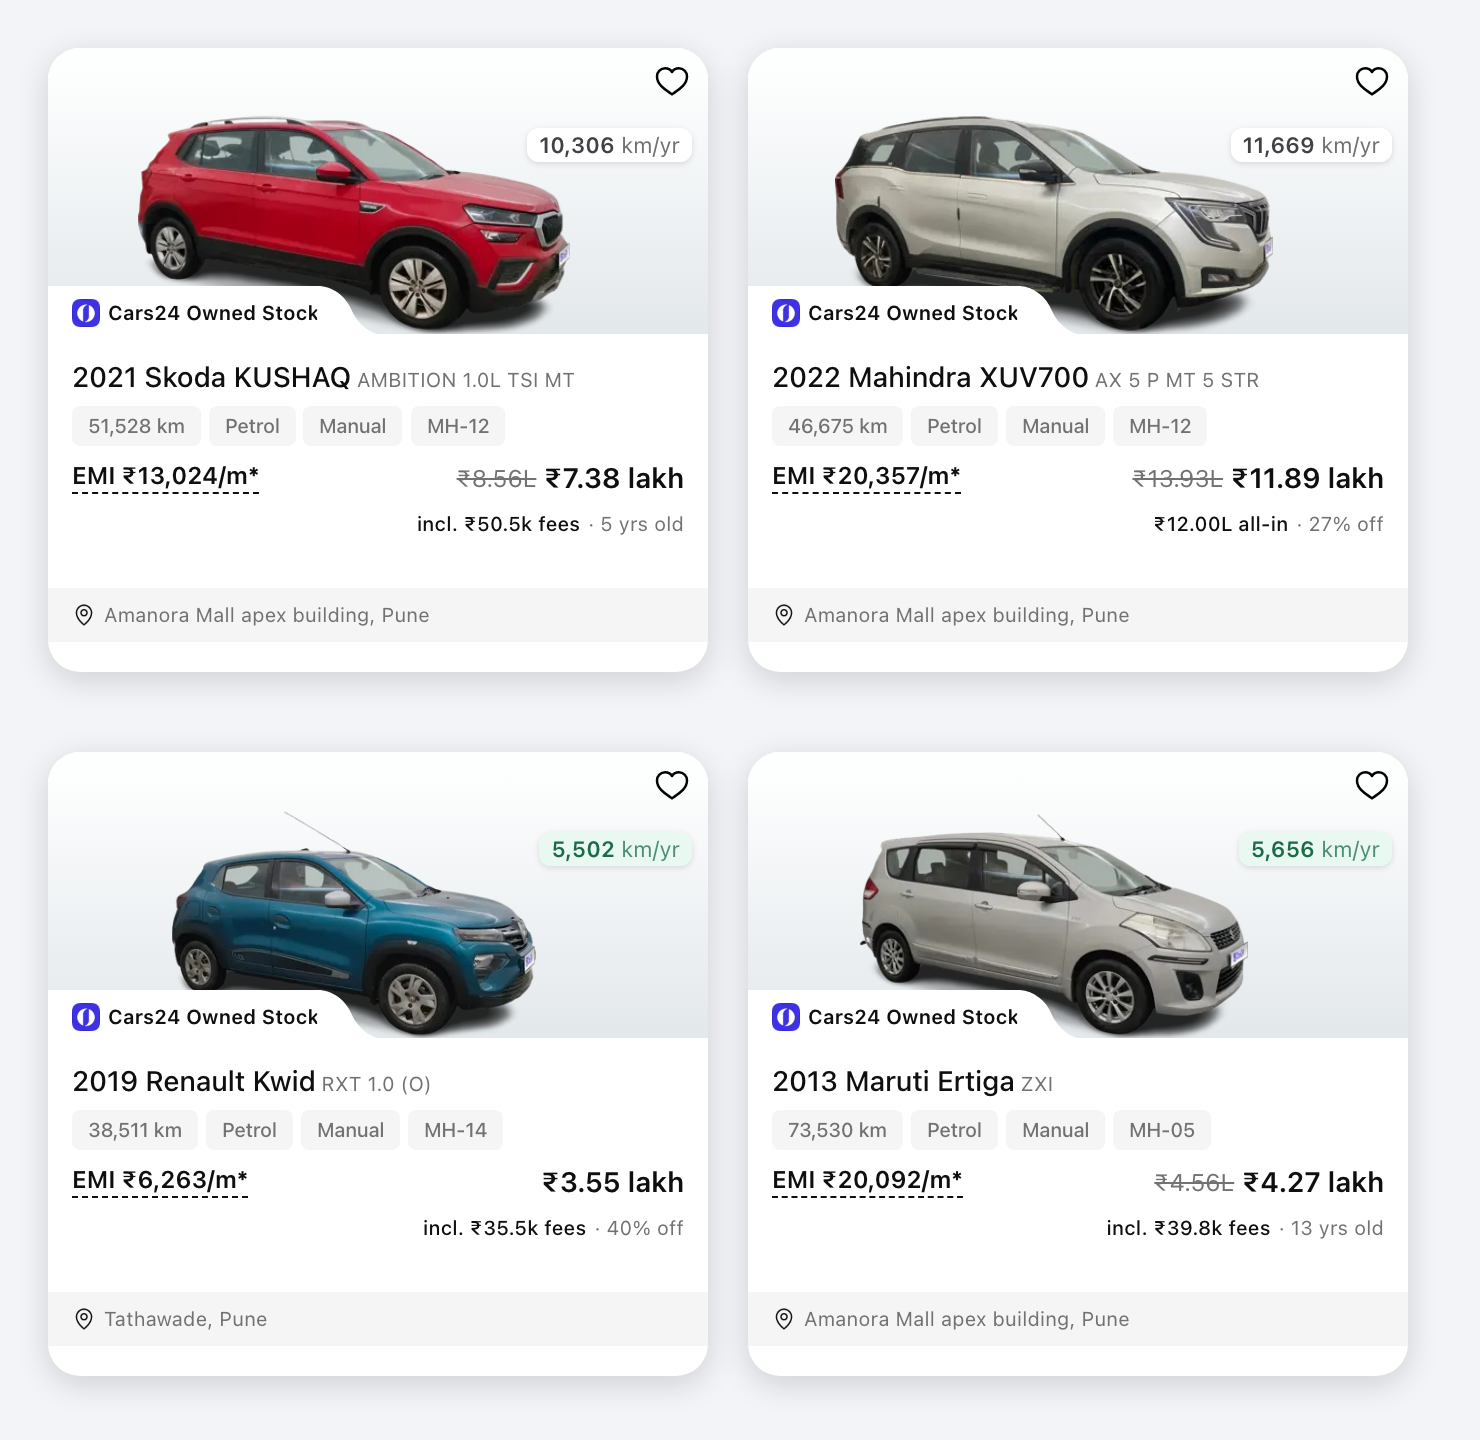
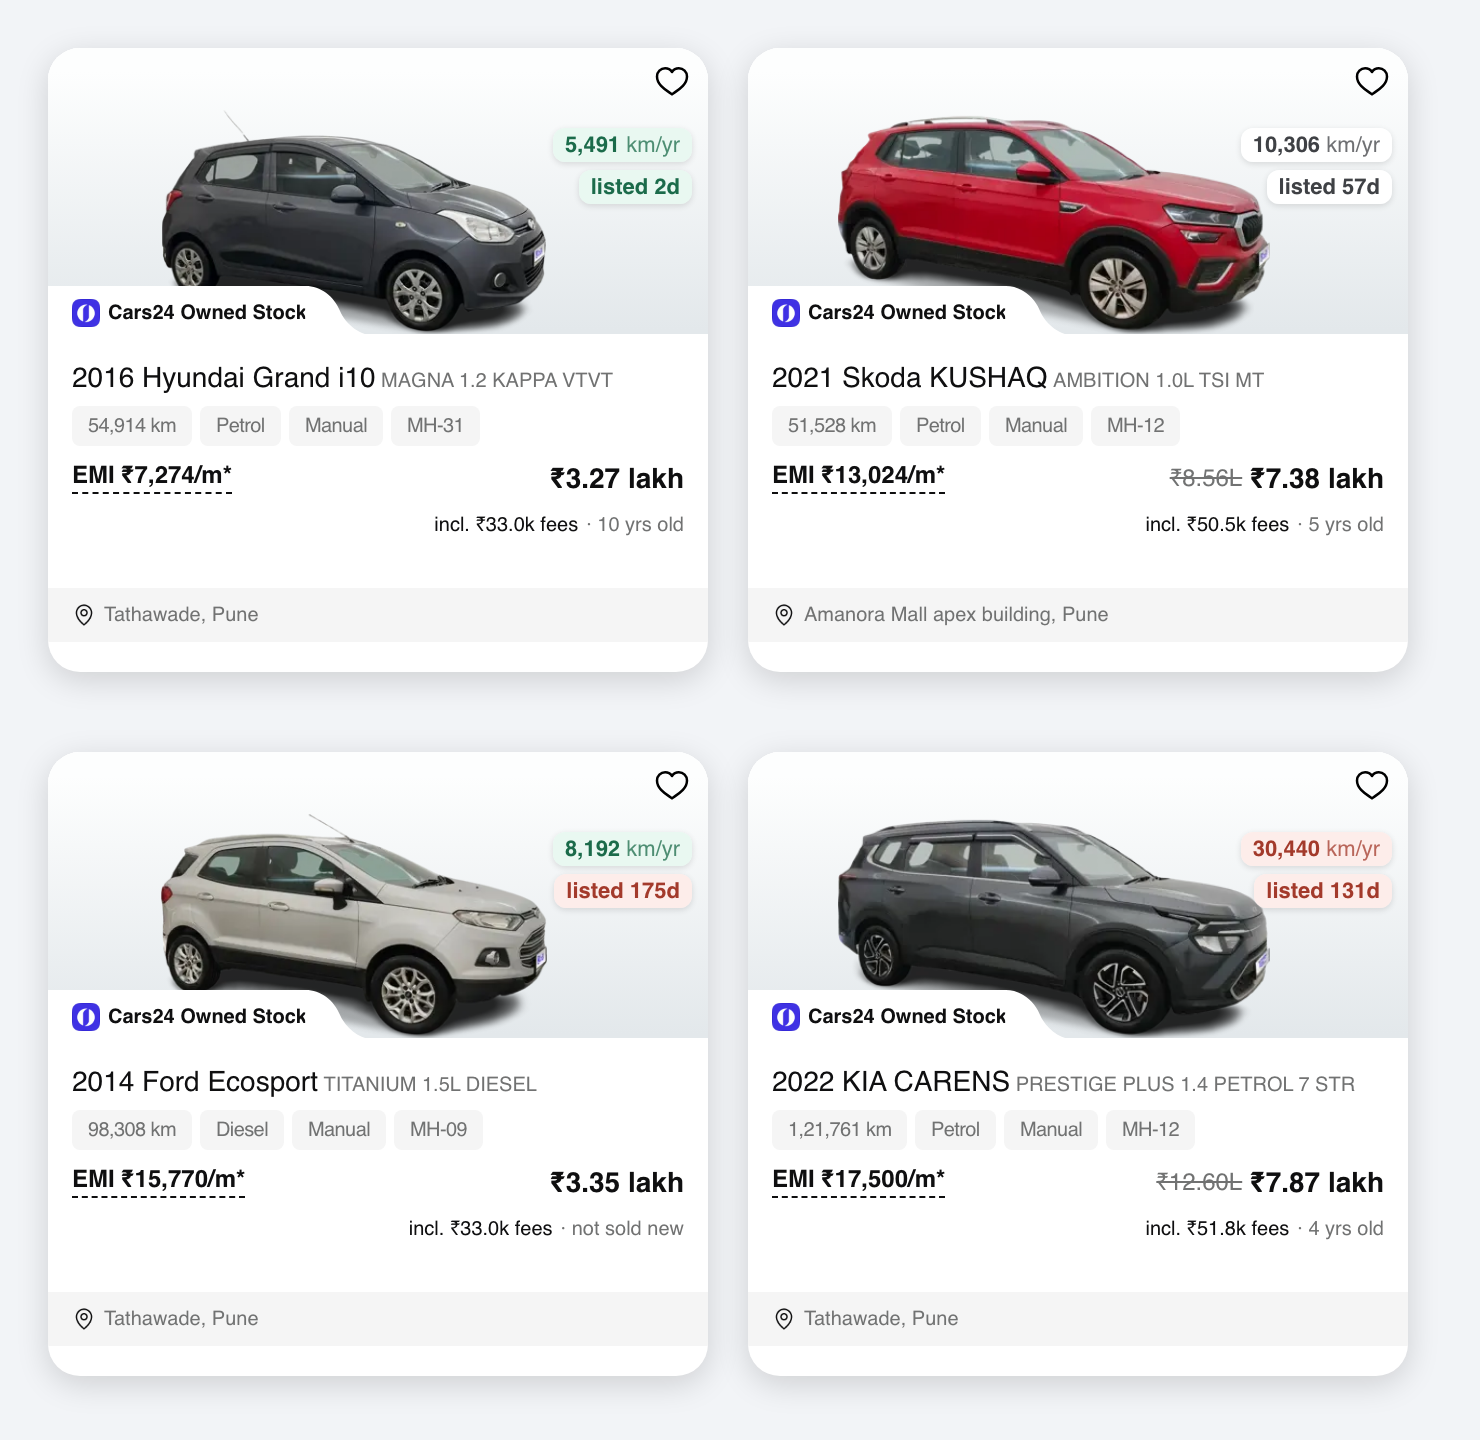
adding - age of listing to the cards

diff --git a/tampermonkey/cars24/cars24-card-enricher.user.js b/tampermonkey/cars24/cars24-card-enricher.user.js
@@ -1,8 +1,8 @@
 // ==UserScript==
 // @name         Cars24 Card Enricher
 // @namespace    https://github.com/amrmahal/scripts
-// @version      1.1.0
-// @description  Splits out the fees baked into every Cars24 price, adds an honest "% off new", and shows km/year.
+// @version      1.2.0
+// @description  Splits out the fees baked into every Cars24 price, adds an honest "% off new", km/year, and how long the car has been listed.
 // @author       amrmahal
 // @match        https://www.cars24.com/*
 // @connect      car-catalog-gateway-in.c24.tech
@@ -41,6 +41,12 @@
  *   3. Kilometres per year, in a pill under the wishlist heart. 60,000 km reads very differently
  *      on a 2013 car than a 2021 one.
  *
+ *   4. How long the car has been up for sale, in a second pill below that. Cars24 knows this and
+ *      never shows it: the catalogue API returns firstListingTime, and sorting the site by its own
+ *      "Recently Added" then reading that field back gives a perfectly monotonic sequence, so it is
+ *      the column that sort runs on. A car that has sat for four months is a different conversation
+ *      from one listed yesterday.
+ *
  * Everything is read-only and cached in localStorage. If the network is unavailable the card is
  * left exactly as the site drew it.
  */
@@ -57,6 +63,10 @@
         chargesApi: 'https://car-catalog-gateway-in.c24.tech/detail/v1/charges/',
         chargesHeaders: { X_TENANT_ID: 'INDIA_CAR_LISTING', Source: 'mSite' },
 
+        // Catalogue API. Takes many appointmentIds at once and returns, among much else, the
+        // firstListingTime the site itself sorts "Recently Added" by.
+        listingApi: 'https://car-catalog-gateway-in.c24.tech/listing/v1/cars',
+
         newCarsBase: 'https://www.cars24.com/new-cars/',
         // Authoritative brand/model index: 39 brands, 350 models, one cached request.
         variantSitemap: 'https://www.cars24.com/new-cars/new-cars-variants.xml',
@@ -66,13 +76,26 @@
             chargesFail: 30 * 60 * 1000,       // don't re-hammer dead appointmentIds
             newCarModel: 7 * 24 * 60 * 60 * 1000,
             sitemap: 7 * 24 * 60 * 60 * 1000,
+            // A car's first-listed timestamp never changes, so hold it for a month and recompute
+            // the day count from it each time. Keeps repeat browsing free.
+            firstListing: 30 * 24 * 60 * 60 * 1000,
+            firstListingFail: 60 * 60 * 1000,
         },
 
         maxConcurrent: 4,
         requestGapMs: 120,
 
+        // The response carries the whole card record (~11 KB a car), so ask in decent-sized batches
+        // and only once per car, ever. 200 ids in a URL is accepted; 40 keeps it comfortable.
+        ageBatchSize: 40,
+        ageBatchWaitMs: 90,
+
         // Typical yearly running, used to judge whether a car is low- or high-use for its age.
         avgKmPerYear: 12000,
+
+        // Days on sale before a listing counts as fresh / as having sat a while.
+        freshDays: 14,
+        staleDays: 60,
 
         // Age-aware plausibility ceiling for the computed discount:
         //   ceiling(age) = min(maxPct, firstYearPct + laterYearPct * (age - 1))
@@ -509,6 +532,91 @@
         baseOf(data) {
             const b = (data.charges || []).find((c) => c && c.id === 'BasePrice');
             return b ? b.amount : null;
+        },
+    };
+
+    /* ---------------------------------------------------------------------- *
+     * listingAge - how long each car has been up for sale
+     *
+     * The catalogue API hands back firstListingTime, which the website fetches
+     * but never shows. It is the real thing, not a guess: sorting the site by
+     * its own "Recently Added" and reading this field back gives a perfectly
+     * monotonic sequence, so this is the column that sort runs on.
+     *
+     * It takes many ids per call, so cards are collected for a moment and asked
+     * for together - one request per screenful instead of one per card. The
+     * timestamp never changes once set, so it is cached for a good long while
+     * and the day count recomputed from it on the fly.
+     * ---------------------------------------------------------------------- */
+
+    const listingAge = {
+        queue: new Map(),   // appointmentId -> [resolve, ...]
+        timer: null,
+
+        get(appId) {
+            const cached = store.get('fl:' + appId);
+            if (cached) return Promise.resolve(cached.miss ? null : this.daysSince(cached.t));
+
+            return new Promise((resolve) => {
+                if (!this.queue.has(appId)) this.queue.set(appId, []);
+                this.queue.get(appId).push(resolve);
+
+                // Flush early once we have a full batch, otherwise give the rest of the
+                // screenful a moment to arrive.
+                if (this.queue.size >= CONFIG.ageBatchSize) this.flush();
+                else if (!this.timer) this.timer = setTimeout(() => this.flush(), CONFIG.ageBatchWaitMs);
+            });
+        },
+
+        flush() {
+            clearTimeout(this.timer);
+            this.timer = null;
+            if (!this.queue.size) return;
+
+            const batch = Array.from(this.queue.keys()).slice(0, CONFIG.ageBatchSize);
+            const waiting = new Map();
+            batch.forEach((id) => { waiting.set(id, this.queue.get(id)); this.queue.delete(id); });
+
+            // Deliberately no custom headers: that keeps this a CORS "simple" request, so the
+            // browser skips the preflight round trip. The endpoint does not require any.
+            const url = CONFIG.listingApi + '?appIds=' + batch.join(',');
+
+            gate.run(() => httpGet(url, {}, false))
+                .then((data) => {
+                    const found = new Map();
+                    for (const car of (data && data.content) || []) {
+                        if (car && car.appointmentId && car.firstListingTime) {
+                            found.set(String(car.appointmentId), car.firstListingTime);
+                        }
+                    }
+                    for (const id of batch) {
+                        const t = found.get(id);
+                        if (t) {
+                            store.set('fl:' + id, { t }, CONFIG.ttl.firstListing);
+                        } else {
+                            // Unknown ids are silently dropped from the response rather than
+                            // returned as null, so record the miss and stop asking for a while.
+                            store.set('fl:' + id, { miss: true }, CONFIG.ttl.firstListingFail);
+                        }
+                        this.settle(waiting.get(id), t ? this.daysSince(t) : null);
+                    }
+                })
+                .catch(() => {
+                    for (const id of batch) this.settle(waiting.get(id), null);
+                })
+                .then(() => { if (this.queue.size) this.flush(); });
+        },
+
+        settle(resolvers, value) {
+            (resolvers || []).forEach((r) => r(value));
+        },
+
+        // Timestamps come back both with and without milliseconds in the same response, so parse
+        // with Date.parse rather than anything that assumes a fixed width.
+        daysSince(iso) {
+            const t = Date.parse(iso);
+            if (!isFinite(t)) return null;
+            return Math.max(0, Math.floor((Date.now() - t) / 86400000));
         },
     };
 
@@ -982,33 +1090,51 @@
         return Math.round(km / years);
     }
 
-    function addKmPill(card, car) {
-        if (card.querySelector('[' + KM_PILL + ']')) return;
+    const PILL_STACK = 'data-c24ce-pills';
 
-        const perYear = kmPerYear(car);
-        if (!perYear) return;
+    const TONE = {
+        good: { fg: '#1B6B4A', bg: 'rgba(232,248,240,0.94)' },
+        plain: { fg: '#3F4145', bg: 'rgba(255,255,255,0.94)' },
+        warn: { fg: '#A33A2B', bg: 'rgba(253,236,233,0.94)' },
+    };
 
-        // The heart lives in an absolutely positioned box at top:8px right:8px; its offset parent
-        // is the thumbnail. Hang the pill off that same parent so it tracks the heart.
+    // One absolutely-positioned column under the heart, so pills stack instead of overlapping.
+    // The heart sits in a box at top:8px right:8px whose offset parent is the thumbnail; we hang
+    // the stack off that same parent so it tracks the heart wherever the card is laid out.
+    function pillStack(card) {
+        let stack = card.querySelector('[' + PILL_STACK + ']');
+        if (stack) return stack;
+
         const heartBox = card.querySelector('.styles_outer__ZH1Cg');
         const host = heartBox && heartBox.parentElement && heartBox.parentElement.parentElement;
-        if (!host) return;
+        if (!host) return null;
         if (!host.style.position) host.style.position = 'relative';
 
-        const ratio = perYear / CONFIG.avgKmPerYear;
-        const tone = ratio <= 0.75
-            ? { fg: '#1B6B4A', bg: 'rgba(232,248,240,0.94)' }   // easy life
-            : ratio >= 1.4
-                ? { fg: '#A33A2B', bg: 'rgba(253,236,233,0.94)' } // worked hard
-                : { fg: '#3F4145', bg: 'rgba(255,255,255,0.94)' };
-
-        const pill = document.createElement('div');
-        pill.setAttribute(KM_PILL, '1');
-        pill.style.cssText = [
+        stack = document.createElement('div');
+        stack.setAttribute(PILL_STACK, '1');
+        stack.style.cssText = [
             'position:absolute',
             'top:40px',            // clears the 24px heart at top:8px
             'right:8px',
             'z-index:9',
+            'display:flex',
+            'flex-direction:column',
+            'align-items:flex-end',
+            'gap:4px',
+            'pointer-events:none',
+        ].join(';');
+        host.appendChild(stack);
+        return stack;
+    }
+
+    function addPill(card, marker, value, unit, tone, tooltip) {
+        if (card.querySelector('[' + marker + ']')) return;
+        const stack = pillStack(card);
+        if (!stack) return;
+
+        const pill = document.createElement('div');
+        pill.setAttribute(marker, '1');
+        pill.style.cssText = [
             'padding:2px 6px',
             'border-radius:6px',
             'background:' + tone.bg,
@@ -1018,14 +1144,48 @@
             'font-weight:var(--semibold, 600)',
             'text-align:right',
             'white-space:nowrap',
-            'pointer-events:none',
             'box-shadow:0 1px 3px rgba(0,0,0,0.12)',
         ].join(';');
         pill.innerHTML =
-            '<span>' + fmt.grouped(perYear) + '</span>' +
-            '<span style="font-weight:var(--regular, 400);opacity:0.75"> km/yr</span>';
+            '<span>' + value + '</span>' +
+            '<span style="font-weight:var(--regular, 400);opacity:0.75">' + unit + '</span>';
+        if (tooltip) {
+            pill.setAttribute('title', tooltip);
+            pill.style.pointerEvents = 'auto';
+        }
+        stack.appendChild(pill);
+    }
 
-        host.appendChild(pill);
+    function addKmPill(card, car) {
+        const perYear = kmPerYear(car);
+        if (!perYear) return;
+        const ratio = perYear / CONFIG.avgKmPerYear;
+        const tone = ratio <= 0.75 ? TONE.good : ratio >= 1.4 ? TONE.warn : TONE.plain;
+        addPill(card, KM_PILL, fmt.grouped(perYear), ' km/yr', tone,
+            car.odometer && car.odometer.display
+                ? car.odometer.display + ' over ' + Math.max(1, new Date().getFullYear() - car.year) + ' years'
+                : '');
+    }
+
+    /* ---------------------------------------------------------------------- *
+     * How long the car has been up for sale
+     *
+     * A car that has sat for three months is a different conversation from one
+     * listed yesterday, and the site never tells you which is which.
+     * ---------------------------------------------------------------------- */
+
+    const AGE_PILL = 'data-c24ce-age';
+
+    function addAgePill(card, days) {
+        if (days === null || days < 0) return;
+        const tone = days < CONFIG.freshDays ? TONE.good
+            : days > CONFIG.staleDays ? TONE.warn
+                : TONE.plain;
+        const tip = days === 0
+            ? 'Listed on Cars24 today'
+            : 'First listed on Cars24 ' + days + (days === 1 ? ' day' : ' days') + ' ago' +
+              (days > CONFIG.staleDays ? ' - it has been sitting a while, so there may be room to negotiate' : '');
+        addPill(card, AGE_PILL, days === 0 ? 'listed today' : 'listed ' + days + 'd', '', tone, tip);
     }
 
     /* ---------------------------------------------------------------------- *
@@ -1054,6 +1214,12 @@
 
         // Yearly running needs nothing from the network, so show it straight away.
         addKmPill(card, car);
+
+        // How long it has been on sale. Runs alongside the price work rather than after it, so a
+        // slow catalogue response never holds up the fee figure.
+        listingAge.get(appId)
+            .then((days) => addAgePill(card, days))
+            .catch(() => {});
 
         const node = labelNodeOf(card);
         if (!node) return;

diff --git a/tampermonkey/cars24/README.md b/tampermonkey/cars24/README.md
@@ -1,10 +1,11 @@
 # Cars24 Card Enricher
 
-A userscript that adds three things to every car card on [cars24.com](https://www.cars24.com):
+A userscript that adds four things to every car card on [cars24.com](https://www.cars24.com):
 
 1. **How much of the price is fees** — not the car, the paperwork.
 2. **How much cheaper it is than buying that model new** — but only when that comparison is honest.
 3. **How hard the car has been driven** — kilometres per year, not just total odometer.
+4. **How long it has been up for sale** — a car that has sat for months is negotiable.
 
 ![what it looks like](docs/preview.png)
 
@@ -38,7 +39,7 @@ Same numbers the site's own price popup shows. You just don't have to open it on
 
 ---
 
-## The three things it shows
+## The four things it shows
 
 ### 1. The fee split
 
@@ -96,6 +97,24 @@ heart divides by the car's age so you can judge it at a glance:
 - **grey** — normal, around the 12,000 km/yr Indian average
 - **red** — over ~17,000 km/yr, this one has worked
 
+### 4. Days listed
+
+A second pill under the first, showing how long the car has been on sale:
+
+- **green** — under 14 days, fresh stock
+- **grey** — a few weeks, normal
+- **amber** — over 60 days, it has been sitting
+
+This one is worth knowing before you talk money. A car listed 175 days ago has had six months of
+people walking away from it; one listed yesterday has not.
+
+Cars24 tracks this and never shows it. The catalogue API returns a `firstListingTime` per car, and
+you can prove it means what it says: sort the site by its own **Recently Added** and read the field
+back, and the sequence is perfectly monotonic across every card — it is the column that sort runs on.
+So this is an exact date, not an estimate.
+
+The numbers are real ones, not derived: observed ages on a single Pune page ran from 2 days to 175.
+
 ---
 
 ## Installing
@@ -115,8 +134,10 @@ Nothing to configure.
 same endpoint the site's own price popup uses. It never sends your data anywhere.
 
 **It is polite.** Four requests in flight at most, with a small gap between them, and results are
-cached in your browser — prices for a day, new-car data for a week. Scrolling back over cars you
-have already seen costs nothing.
+cached in your browser — prices for a day, new-car data for a week, listing dates for a month.
+Days-listed is asked for in batches, so a screenful of 20 cards costs one request, not twenty. A
+car's first-listed timestamp never changes, so it is fetched once and the day count recomputed
+locally after that. Scrolling back over cars you have already seen costs nothing.
 
 **If it can't reach the network, it gets out of the way.** No error toasts, no broken layout: the
 card just looks like it always did, with the site's own strapline untouched.
@@ -149,6 +170,10 @@ Likely failure modes:
 - **"% off new" disappears everywhere.** The new-car pages changed shape. Two payload formats exist
   today — some pages inline all their data, some use back-references — and the parser handles both,
   but a third would need work.
+- **Days-listed stops appearing.** The catalogue API dropped `firstListingTime`, or the batch
+  endpoint moved. Nothing else depends on it, so the rest of the card carries on. Note the field
+  returns timestamps both with and without milliseconds in the same response, so it is parsed with
+  `Date.parse` rather than anything that assumes a fixed width.
 
 Set `debug: true` at the top of the script and the console will tell you why each card decided what
 it did (`too-good-to-be-true`, `variant-unmatched`, `discontinued`, and so on).
